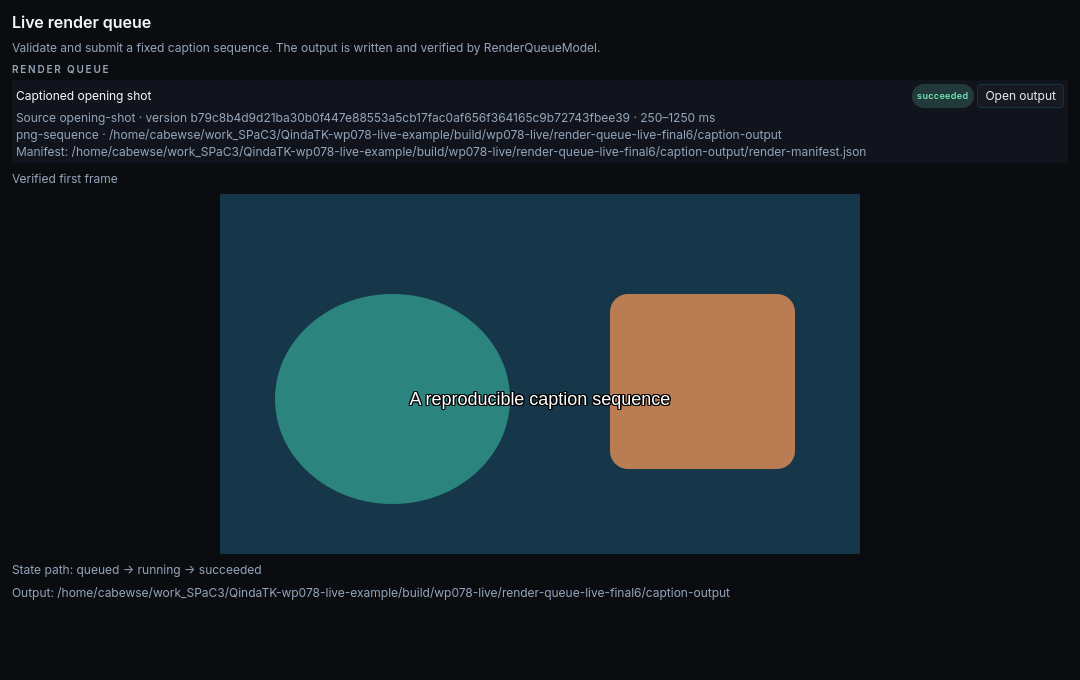
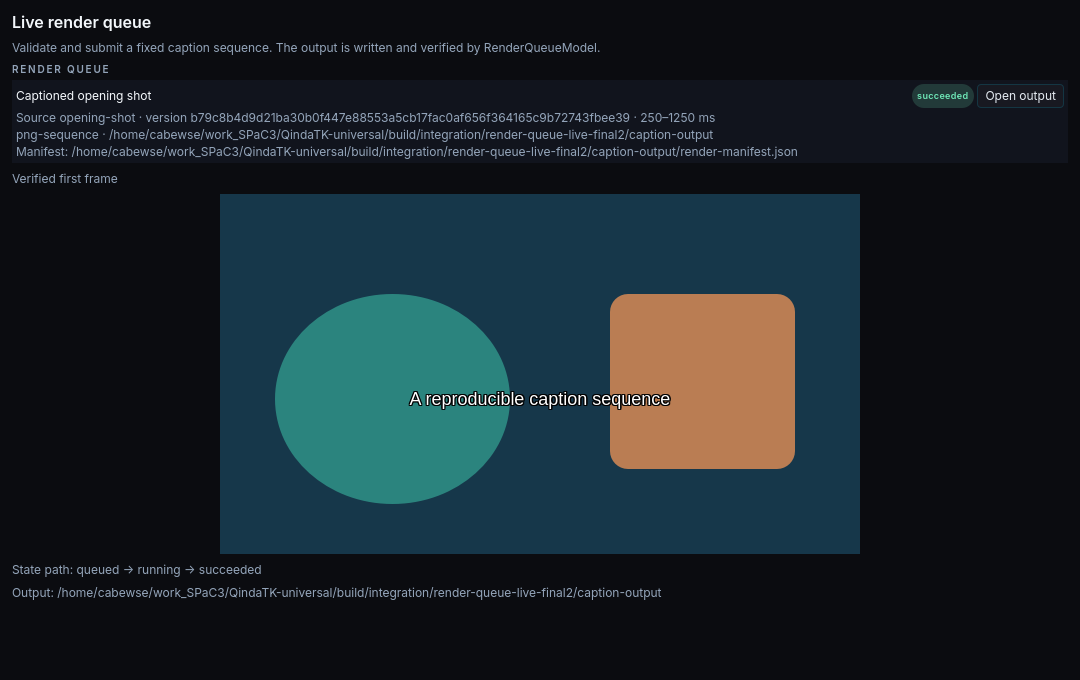
Record merged collection transfer and render queue output evidence
Focused merged CTest: six selected cases passed, including native collection transfer, node graph and live render queue. Refreshed and inspected 1080x680 live queue screenshot.

Changed region(s): [[0.275, 0.1853, 0.7944, 0.2471], [0.2444, 0.8647, 0.6722, 0.8956]]

diff --git a/docs/universal-toolkit/implementation/execution-ledger.md b/docs/universal-toolkit/implementation/execution-ledger.md
@@ -74,7 +74,7 @@ as though a later fix had already passed the earlier run.
 | [WP-030 — Build the general chart framework](phase-02-controls-data.md#wp-030) | 02 | Sol | accepted | [Typed core](evidence/WP-030.md); [visual, export and dual-render evidence](evidence/WP-030-visual.md) |
 | [WP-031 — Complete analytical chart and scheduling families](phase-02-controls-data.md#wp-031) | 02 | Sol | accepted | [Seven families, dual-Qt suite and installed consumer](evidence/WP-031.md) |
 | [WP-032 — Build event, diff and resource views](phase-02-controls-data.md#wp-032) | 02 | Luna | accepted | [Event, diff and resource integration status](evidence/WP-032.md) |
-| [WP-033 — Prove the shared application framework](phase-02-controls-data.md#wp-033) | 02 | Sol | active | [Editable sort/filter workbench and dual-Qt consumers; lifecycle gaps open](evidence/WP-033.md) |
+| [WP-033 — Prove the shared application framework](phase-02-controls-data.md#wp-033) | 02 | Sol | active | [Native collection transfer, editable two-document workbench and dual-Qt consumers; accessibility-client gate open](evidence/WP-033.md) |
 | [WP-040 — Build the spatial canvas and rendering boundary](phase-03-authoring.md#wp-040) | 03 | Sol | review | [Integrated renderer and installed consumer; dual-Qt 102/102; WP-033 dependency open](evidence/WP-040.md) |
 | [WP-041 — Implement spatial selection, snapping and transforms](phase-03-authoring.md#wp-041) | 03 | Sol | active | [Lasso, snap, guides, shared selection and reference group transforms; persistence still open](evidence/WP-041.md) |
 | [WP-042 — Add artboards, layers and document navigation](phase-03-authoring.md#wp-042) | 03 | Luna | active | [Layer tree, navigator, alignment and artboard views; model integration open](evidence/WP-042.md) |
@@ -112,7 +112,7 @@ as though a later fix had already passed the earlier run.
 | [WP-075 — Implement tracking and rotoscoping](phase-06-video.md#wp-075) | 06 | Sol | planned | — |
 | [WP-076 — Implement 3D scene rendering and manipulation](phase-06-video.md#wp-076) | 06 | Sol | planned | — |
 | [WP-077 — Implement rig, UV and texture authoring](phase-06-video.md#wp-077) | 06 | Sol | planned | — |
-| [WP-078 — Implement durable render queues](phase-06-video.md#wp-078) | 06 | Sol | active | [Queue view and durable execution core integrated; merged wiring and output fixture under verification](evidence/WP-078.md) |
+| [WP-078 — Implement durable render queues](phase-06-video.md#wp-078) | 06 | Sol | active | [Queue view, durable core and verified three-frame PNG output fixture integrated; more providers remain](evidence/WP-078.md) |
 | [WP-080 — Implement detached native panels](phase-07-integrations.md#wp-080) | 07 | Sol | active | [Native window and DockModel integration in progress](evidence/WP-080.md) |
 | [WP-081 — Implement extensions, scripting and developer surfaces](phase-07-integrations.md#wp-081) | 07 | Sol | planned | — |
 | [WP-082 — Implement collaboration, presence and version history](phase-07-integrations.md#wp-082) | 07 | Sol | planned | — |

diff --git a/docs/universal-toolkit/implementation/evidence/WP-078.md b/docs/universal-toolkit/implementation/evidence/WP-078.md
@@ -9,8 +9,8 @@ validated output manifests. It distinguishes draft, validated, queued,
 running, cancelling, succeeded, failed, cancelled and stale states. Its
 Validate, Submit, Cancel, Retry and Open output actions emit requests for the
 host to decide; the view shows Open output only after the host reports a
-successful job with a validated manifest. The host fixture deliberately
-does not render files.
+successful job with a validated manifest. The snapshot-only fixture deliberately
+does not render files; the separate live fixture below exercises actual output.
 
 The isolated focused QML test passed 3/3 and the fixture rendered. The
 [render queue screenshot](../../../screenshots/render-queue.png) was opened
@@ -35,8 +35,17 @@ reopens a separate interrupted attempt, removes its partial stage, and retries
 successfully after restoring identical source bytes. The test also
 checks successful output cannot be retried. See [render queue contract](../../../render-queue.md)
 for declared restart and provider limits. The core's isolated configured-limit
-build and focused CTest passed 1/1. Merged build, UI-to-core fixture and output
-screenshot remain to verify.
+build and focused CTest passed 1/1. After integration, the merged
+`tst_render_queue_model` and `example_render_queue_live` passed 2/2.
+
+The [live render queue fixture](../../../../examples/render-queue-live/Main.qml)
+wires every view request to the durable model. Its `--check` path validates
+and submits a snapshot, confirms `queued → running → succeeded`, reads a
+three-frame captioned PNG sequence, verifies the output manifest and checks
+that Open output appears only for the validated result. The
+[1080×680 capture](../../../screenshots/render-queue-live.png) was regenerated
+from the merged tree and opened: it shows the verified first frame, state
+path, and Open output action.
 
 Remaining capability: no built-in muxed video, audio or document provider;
 those require a host engine registered through the C++ provider seam. No

diff --git a/docs/universal-toolkit/implementation/evidence/WP-033.md b/docs/universal-toolkit/implementation/evidence/WP-033.md
@@ -132,3 +132,9 @@ Qt 6.11.1: the three focused CTest cases
 builds used the configured `MAKEOPTS=-j24 -l24` equivalent (`-j24 -l24`);
 no reduced job or load limit was supplied. The transfer check observed a
 native list row with a fresh ID, then one undo restored the empty list.
+
+After merging the transfer commit, the integration build and focused
+`tst_reference_collection_transfer`, `tst_reference_document_codec` and
+`tst_drag_drop_service` CTest cases passed 3/3 on Qt 6.11.1. The separate
+native accessibility-client activation and Qt 6.8 lifecycle rerun remain
+open, so the package remains active.
